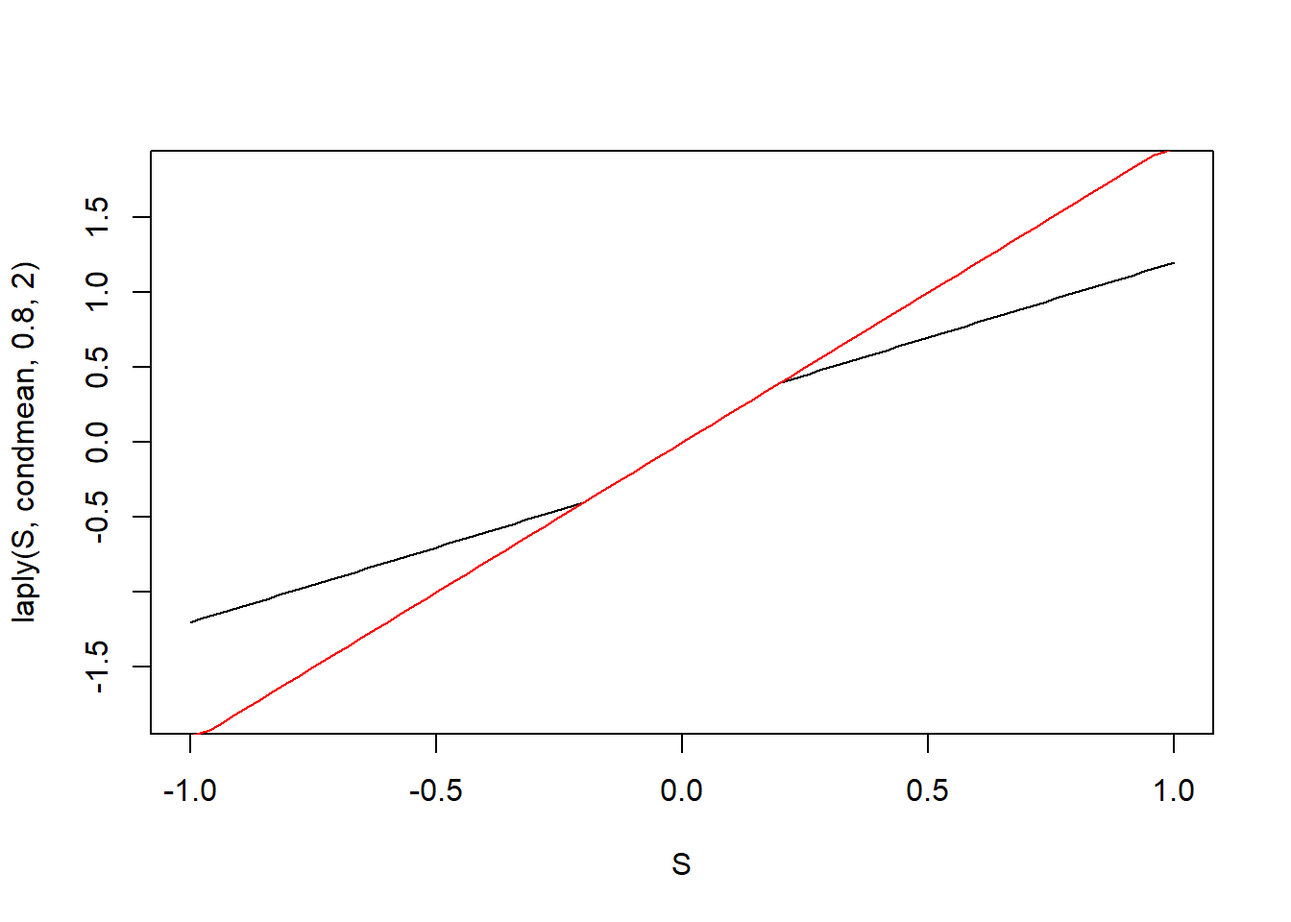
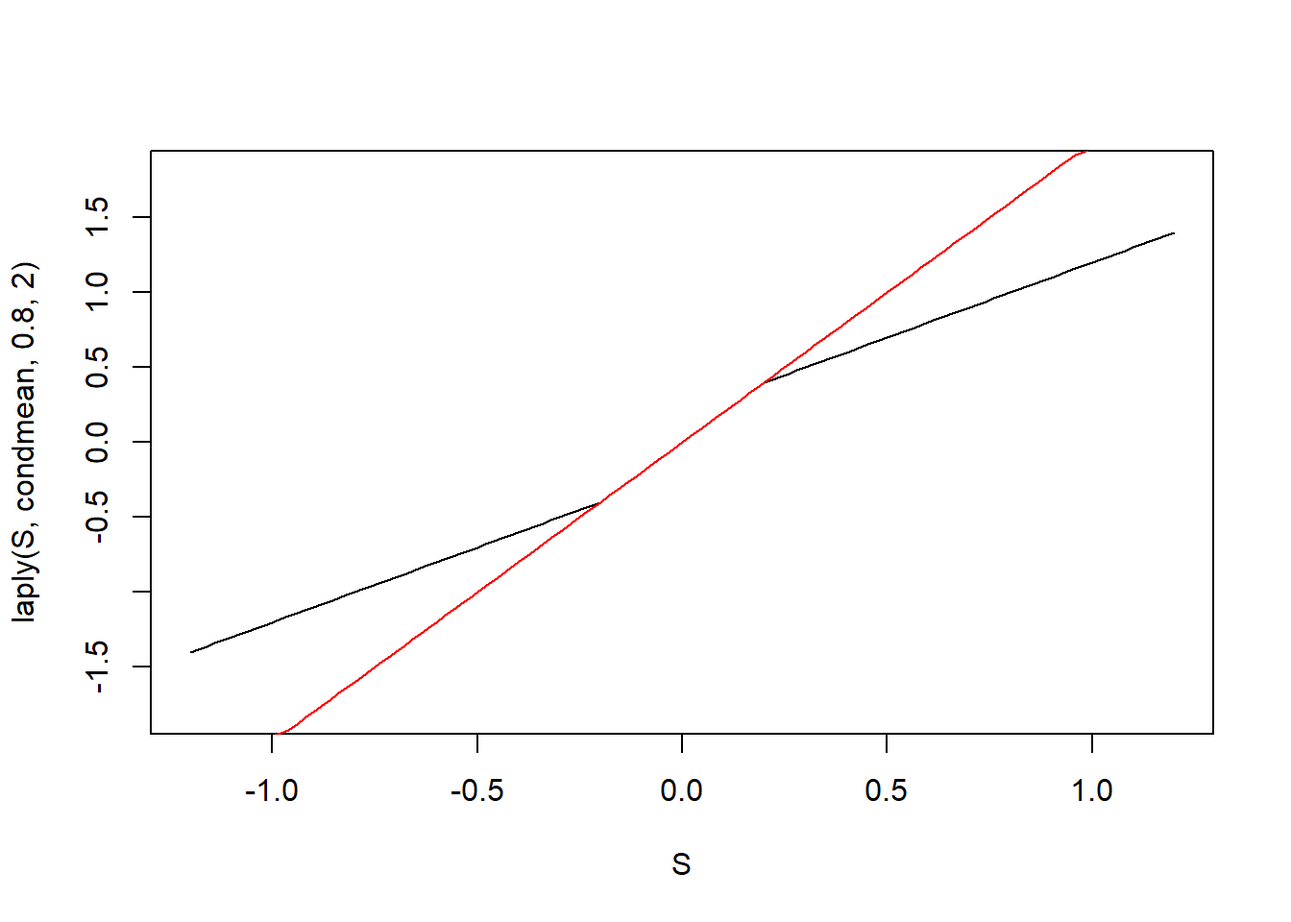
update

diff --git a/public/research/etf持股影响股票定价效率的理论模型推导/index.html b/public/research/etf持股影响股票定价效率的理论模型推导/index.html
@@ -149,7 +149,7 @@ s.t \hspace{0.4cm} W_i=\bar\theta P+\theta_i(V-P)\]</span></p>
 <blockquote>
 <p>(2)信息不对称</p>
 </blockquote>
-<p>当信息不对称时，两类投资者掌握的信息不同，知情投资者掌握股票价值和价格信息，非知情投资者掌握价格信息，只能通过价格来推断资产价值信息。由于信息不对称条件下，求解比较复杂，参考Yang Bai et al.研究，我们先猜测一种均衡下的价格函数，在此价格函数下推导出投资者的需求，并证明在此均衡价格下市场出清。我们认为股票价格取决于经济状态变量，受交易成本和噪声影响，且股票价格只取决于信号<span class="math inline">\(S=\frac{1}{2}(F-c\varepsilon)\)</span>，股票价格是<span class="math inline">\(S\)</span>的严格增函数。其中，<span class="math inline">\(c\varepsilon \sim U[-a_F,a_F]\)</span>，<span class="math inline">\(0&lt; c\leq1\)</span>。</p>
+<p>当信息不对称时，两类投资者掌握的信息不同，知情投资者掌握股票价值和价格信息，非知情投资者掌握价格信息，只能通过价格来推断资产价值信息。由于信息不对称条件下，求解比较复杂，参考Yang Bai et al.研究，我们先猜测一种均衡下的价格函数，在此价格函数下推导出投资者的需求，并证明在此均衡价格下市场出清。我们认为股票价格取决于经济状态变量，受交易成本和噪声影响，且股票价格只取决于信号<span class="math inline">\(S=\frac{1}{2}(F-c\varepsilon)\)</span>，股票价格是<span class="math inline">\(S\)</span>的严格增函数。其中，<span class="math inline">\(\varepsilon \sim U[-a_F,a_F]\)</span>，<span class="math inline">\(0&lt; c\leq 1\)</span>，S。</p>
 <p>对于知情交易者来说，在信息集<span class="math inline">\(I=\{F,P\}\)</span>下的需求函数为：</p>
 <p><span class="math display">\[\theta_I==\frac{F-P}{\sigma_u^2}\]</span></p>
 <p>对于非知情交易者来说，在信息集<span class="math inline">\(I=\{P\}\)</span>下，<span class="math inline">\(E[F|I_U]=E[F|P]=E[F|S]\)</span>，<span class="math inline">\(Var[F|I_U]=Var[F|P]=Var[F|S]\)</span>。由于<span class="math inline">\(c\varepsilon\)</span>与<span class="math inline">\(F\)</span>独立同分布，则其联合密度函数为<span class="math inline">\(f(F,\varepsilon)=f_F(F)f_{\varepsilon}(\varepsilon)\)</span>，且<span class="math inline">\(\varepsilon=\frac{F-2S}{c}\)</span>，则<span class="math inline">\(S\)</span>的概率密度函数为：</p>
@@ -176,32 +176,32 @@ f(F|S)=f(F,F-2S)/f(S)=\left\{
 <p><span class="math display">\[\begin{equation}
 E[F|S]=\int Ff(F|S)dF=\left\{
 \begin{aligned}
-&amp;\frac{1}{(1+c)a_F-2S}\int _{-ca_F+2S}^{a_F}FdF,\hspace{0.5cm}S\ge\frac{(1-c)a_F}{2} \\
-&amp;\frac{1}{2ca_F}\int _{-ca_F+2S}^{ca_F+2S}FdF,\hspace{0.5cm}\frac{(1-c)a_F}{2}\ge S\ge-\frac{(1-c)a_F}{2} \\
-&amp;\frac{1}{(1+c)a_F+2S}\int _{-a_F}^{ca_F+2S}FdF,\hspace{0.5cm}S\le-\frac{(1-c)a_F}{2}  
+&amp;\frac{1}{(1+c)a_F-2S}\int _{-ca_F+2S}^{a_F}FdF,\hspace{0.5cm} \frac{(1-c)a_F}{2}\le S \le \frac{(1+c)a_F}{2} \\
+&amp;\frac{1}{2ca_F}\int _{-ca_F+2S}^{ca_F+2S}FdF,\hspace{0.5cm}-\frac{(1-c)a_F}{2}&lt; S &lt;\frac{(1-c)a_F}{2} \\
+&amp;\frac{1}{(1+c)a_F+2S}\int _{-a_F}^{ca_F+2S}FdF,\hspace{0.5cm}-\frac{(1+c)a_F}{2}\le S\le-\frac{(1-c)a_F}{2}  
 \end{aligned}
 \right.\\ \hspace{2cm}
 =\left\{
 \begin{aligned}
-&amp;\frac{(1-c)a_F+2S}{2},\hspace{0.5cm}S\ge\frac{(1-c)a_F}{2} \\
-&amp;2S,\hspace{0.5cm}\frac{(1-c)a_F}{2}\ge S\ge-\frac{(1-c)a_F}{2} \\
-&amp;\frac{2S-(1-c)a_F}{2},\hspace{0.5cm}S\le-\frac{(1-c)a_F}{2}  
+&amp;\frac{(1-c)a_F+2S}{2},\hspace{0.5cm}\frac{(1-c)a_F}{2}\le S \le \frac{(1+c)a_F}{2}\\
+&amp;2S,\hspace{0.5cm}-\frac{(1-c)a_F}{2}&lt; S&lt; \frac{(1-c)a_F}{2}\\
+&amp;\frac{2S-(1-c)a_F}{2},\hspace{0.5cm}-\frac{(1+c)a_F}{2}\le S\le-\frac{(1-c)a_F}{2}  
 \end{aligned}
 \right.
 \end{equation}\]</span></p>
 <p><span class="math display">\[\begin{equation}
 E[F^2|S]=\int F^2f(F|S)dF=\left\{
 \begin{aligned}
-&amp;\frac{1}{(1+c)a_F-2S}\int _{-ca_F+2S}^{a_F}F^2dF,\hspace{1cm}S\ge\frac{(1-c)a_F}{2} \\
-&amp;\frac{1}{2ca_F}\int _{-ca_F+2S}^{ca_F+2S}F^2dF,\hspace{0.5cm}\frac{(1-c)a_F}{2}\ge S\ge-\frac{(1-c)a_F}{2} \\
-&amp;\frac{1}{(1+c)a_F+2S)}\int _{-a_F}^{ca_F+2S}F^2dF,\hspace{1cm}S\le-\frac{(1-c)a_F}{2}  
+&amp;\frac{1}{(1+c)a_F-2S}\int _{-ca_F+2S}^{a_F}F^2dF,\hspace{1cm}\frac{(1-c)a_F}{2}\le S \le \frac{(1+c)a_F}{2} \\
+&amp;\frac{1}{2ca_F}\int _{-ca_F+2S}^{ca_F+2S}F^2dF,\hspace{0.5cm}-\frac{(1-c)a_F}{2}&lt; S&lt;\frac{(1-c)a_F}{2} \\
+&amp;\frac{1}{(1+c)a_F+2S)}\int _{-a_F}^{ca_F+2S}F^2dF,\hspace{1cm}- \frac{(1+c)a_F}{2}\le S\le-\frac{(1-c)a_F}{2}  
 \end{aligned}
 \right.\\ \hspace{8cm}
 =\left\{
 \begin{aligned}
-&amp;\frac{(1+c^2-c)a_F^2+2(1-2c)a_FS+4S^2}{3},\hspace{3cm}S\ge\frac{(1-c)a_F}{2} \\
-&amp;4S^2+c^2a_F^2/3,\hspace{6cm}\frac{(1-c)a_F}{2}\ge S\ge-\frac{(1-c)a_F}{2} \\
-&amp;\frac{(1+c^2-c)a_F^2-2(1-2c)a_FS+4S^2}{3},\hspace{3cm}S\le-\frac{(1-c)a_F}{2}  
+&amp;\frac{(1+c^2-c)a_F^2+2(1-2c)a_FS+4S^2}{3},\hspace{1cm}\frac{(1-c)a_F}{2}\le S \le \frac{(1+c)a_F}{2}  \\
+&amp;4S^2+c^2a_F^2/3,\hspace{7cm}-\frac{(1-c)a_F}{2}&lt; S &lt;\frac{(1-c)a_F}{2} \\
+&amp;\frac{(1+c^2-c)a_F^2-2(1-2c)a_FS+4S^2}{3},\hspace{1cm}-\frac{(1+c)a_F}{2}\le S\le-\frac{(1-c)a_F}{2}  
 \end{aligned}
 \right.
 \end{equation}\]</span></p>
@@ -209,9 +209,9 @@ E[F^2|S]=\int F^2f(F|S)dF=\left\{
 V[F|S]
 =\left\{
 \begin{aligned}
-&amp;\frac{[(1+c)a_F-2S]^2}{12},\hspace{3cm}S\ge\frac{(1-c)a_F}{2} \\
-&amp;c^2a_F^2/3,\hspace{2.5cm}\frac{(1-c)a_F}{2}\ge S\ge-\frac{(1-c)a_F}{2} \\
-&amp;\frac{[(1+c)a_F+2S]^2}{12},\hspace{3cm}S\le-\frac{(1-c)a_F}{2}  
+&amp;\frac{[(1+c)a_F-2S]^2}{12},\hspace{1cm}\frac{(1-c)a_F}{2}\le S \le \frac{(1+c)a_F}{2}\\
+&amp;c^2a_F^2/3,\hspace{3.5cm}-\frac{(1-c)a_F}{2}&lt; S&lt;\frac{(1-c)a_F}{2} \\
+&amp;\frac{[(1+c)a_F+2S]^2}{12},\hspace{1cm}-\frac{(1+c)a_F}{2}\le S\le-\frac{(1-c)a_F}{2}  
 \end{aligned}
 \right.
 \end{equation}\]</span></p>
@@ -245,13 +245,13 @@ condvar&lt;-function(S,c,af){
   return(vr)
 }
 set.seed(100)
-theta=0.1
+theta=0.2
 au&lt;-af&lt;-2
 simamu=au^2/3
-c=seq(0,1,0.05)
+c&lt;-0.2
 w=0.5
 epsilon&lt;-runif(101,-2,2)
-S=seq(-1,1,0.02)
+S=seq(-(1+c)*au/2,(1+c)*au/2,0.02)
 
 plot(S,laply(S,condmean,0.8,2),type = &quot;l&quot;,ylim = c(-1.8,1.8))
 lines(S,laply(S,condmean,0.04,2),col=&quot;red&quot;)</code></pre>
@@ -259,7 +259,8 @@ lines(S,laply(S,condmean,0.04,2),col=&quot;red&quot;)</code></pre>
 <pre class="r"><code>plot(S,laply(S,condvar,0.8,2),type = &quot;l&quot;,ylim = c(-1.8,1.8))
 lines(S,laply(S,condvar,0.04,2),col=&quot;red&quot;)</code></pre>
 <p><img src="/research/2021-01-14-etf持股影响股票定价效率的理论模型推导_files/figure-html/unnamed-chunk-1-2.png" width="672" /></p>
-<pre class="r"><code>plot(c,laply(c,condmean,S=-0.8,af=2),type = &quot;l&quot;)</code></pre>
+<pre class="r"><code>c=seq(0,1,0.05)
+plot(c,laply(c,condmean,S=-0.8,af=2),type = &quot;l&quot;)</code></pre>
 <p><img src="/research/2021-01-14-etf持股影响股票定价效率的理论模型推导_files/figure-html/unnamed-chunk-1-3.png" width="672" /></p>
 <pre class="r"><code>plot(c,laply(c,condvar,S=-0.8,af=2),type = &quot;l&quot;)</code></pre>
 <p><img src="/research/2021-01-14-etf持股影响股票定价效率的理论模型推导_files/figure-html/unnamed-chunk-1-4.png" width="672" /></p>
@@ -267,9 +268,9 @@ lines(S,laply(S,condvar,0.04,2),col=&quot;red&quot;)</code></pre>
 <span class="math display">\[\begin{equation}
 \theta_U=\left\{
 \begin{aligned}
-&amp;\frac{S-P}{\frac{1}{12}[(1+c)a_F-2S]^2+\sigma_u^2},\hspace{0.5cm}S\ge\frac{(1-c)a_F}{2} \\
-&amp;\frac{S-P}{\frac{1}{3}(c^2a_F^2)+\sigma_u^2},\hspace{0.5cm}\frac{(1-c)a_F}{2}\ge S\ge-\frac{(1-c)a_F}{2} \\
-&amp;\frac{S-P}{\frac{1}{12}[(1+c)a_F+2S]^2+\sigma_u^2},\hspace{0.5cm}S\le-\frac{(1-c)a_F}{2}  
+&amp;\frac{S-P}{\frac{1}{12}[(1+c)a_F-2S]^2+\sigma_u^2},\hspace{0.5cm}\frac{(1-c)a_F}{2}\le S \le \frac{(1+c)a_F}{2}\\
+&amp;\frac{S-P}{\frac{1}{3}(c^2a_F^2)+\sigma_u^2},\hspace{0.5cm}-\frac{(1-c)a_F}{2}&lt; S&lt; \frac{(1-c)a_F}{2} \\
+&amp;\frac{S-P}{\frac{1}{12}[(1+c)a_F+2S]^2+\sigma_u^2},\hspace{0.5cm}-\frac{(1+c)a_F}{2}\le S\le-\frac{(1-c)a_F}{2}  
 \end{aligned}
 \right.
 \end{equation}\]</span></p>
@@ -281,9 +282,9 @@ lines(S,laply(S,condvar,0.04,2),col=&quot;red&quot;)</code></pre>
 <p><span class="math display">\[\begin{equation}
 P=\left\{
 \begin{aligned}
-&amp;2S+c\varepsilon-\bar\theta\sigma_u^2-(1-w)\frac{S+c\varepsilon+\frac{1}{12}[(1+c)a_F-2S]^2\bar\theta}{1+w\frac{1}{12}[(1+c)a_F-2S]^2/\sigma_u^2},\hspace{0.5cm}S\ge\frac{(1-c)a_F}{2} \\
-&amp;2S+c\varepsilon-\bar\theta\sigma_u^2-(1-w)\frac{S+c\varepsilon+\frac{1}{3}(c^2a_F^2)\bar\theta}{1+w\frac{1}{3}(c^2a_F^2)/\sigma_u^2},\hspace{0.5cm}\frac{(1-c)a_F}{2}\ge S\ge-\frac{(1-c)a_F}{2} \\
-&amp;2S+c\varepsilon-\bar\theta\sigma_u^2-(1-w)\frac{S+c\varepsilon+\frac{1}{12}[(1+c)a_F+2S]^2\bar\theta}{1+w\frac{1}{12}[(1+c)a_F+2S]^2/\sigma_u^2},\hspace{0.5cm}S\le-\frac{(1-c)a_F}{2}  
+&amp;2S+c\varepsilon-\bar\theta\sigma_u^2-(1-w)\frac{S+c\varepsilon+\frac{1}{12}[(1+c)a_F-2S]^2\bar\theta}{1+w\frac{1}{12}[(1+c)a_F-2S]^2/\sigma_u^2},\hspace{0.5cm} \frac{(1-c)a_F}{2}\le S \le \frac{(1+c)a_F}{2} \\
+&amp;2S+c\varepsilon-\bar\theta\sigma_u^2-(1-w)\frac{S+c\varepsilon+\frac{1}{3}(c^2a_F^2)\bar\theta}{1+w\frac{1}{3}(c^2a_F^2)/\sigma_u^2},\hspace{0.5cm}-\frac{(1-c)a_F}{2}&lt; S&lt; \frac{(1-c)a_F}{2} \\
+&amp;2S+c\varepsilon-\bar\theta\sigma_u^2-(1-w)\frac{S+c\varepsilon+\frac{1}{12}[(1+c)a_F+2S]^2\bar\theta}{1+w\frac{1}{12}[(1+c)a_F+2S]^2/\sigma_u^2},\hspace{0.5cm} -\frac{(1+c)a_F}{2} \le S\le-\frac{(1-c)a_F}{2}  
 \end{aligned}
 \right.
 \end{equation}\]</span>
@@ -294,24 +295,24 @@ P=\left\{
 <span class="math display">\[\begin{equation}
 \theta_I=\left\{
 \begin{aligned}
-&amp;\bar\theta+(1-w)\frac{S+c\varepsilon+\frac{1}{12}[(1+c)a_F-2S]^2\bar\theta}{\sigma_u^2+w\frac{1}{12}[(1+c)a_F-2S]^2},\hspace{0.5cm}S\ge\frac{(1-c)a_F}{2} \\
-&amp;\bar\theta+(1-w)\frac{S+c\varepsilon+\frac{1}{3}(c^2a_F^2)\bar\theta}{\sigma_u^2+w\frac{1}{3}(c^2a_F^2)},\hspace{0.5cm}\frac{(1-c)a_F}{2}\ge S\ge-\frac{(1-c)a_F}{2} \\
-&amp;\bar\theta+(1-w)\frac{S+c\varepsilon+\frac{1}{12}[(1+c)a_F+2S]^2\bar\theta}{\sigma_u^2+w\frac{1}{12}[(1+c)a_F+2S]^2},\hspace{0.5cm}S\le-\frac{(1-c)a_F}{2}  
+&amp;\bar\theta+(1-w)\frac{S+c\varepsilon+\frac{1}{12}[(1+c)a_F-2S]^2\bar\theta}{\sigma_u^2+w\frac{1}{12}[(1+c)a_F-2S]^2},\hspace{0.5cm} \frac{(1-c)a_F}{2}\le S \le \frac{(1+c)a_F}{2} \\
+&amp;\bar\theta+(1-w)\frac{S+c\varepsilon+\frac{1}{3}(c^2a_F^2)\bar\theta}{\sigma_u^2+w\frac{1}{3}(c^2a_F^2)},\hspace{0.5cm}-\frac{(1-c)a_F}{2}&lt; S&lt;\frac{(1-c)a_F}{2} \\
+&amp;\bar\theta+(1-w)\frac{S+c\varepsilon+\frac{1}{12}[(1+c)a_F+2S]^2\bar\theta}{\sigma_u^2+w\frac{1}{12}[(1+c)a_F+2S]^2},\hspace{0.5cm}-\frac{(1+c)a_F}{2} \le S\le-\frac{(1-c)a_F}{2}  
 \end{aligned}
 \right.
 \end{equation}\]</span></p>
 <p><span class="math display">\[\begin{equation}
 \theta_U=\left\{
 \begin{aligned}
-&amp;\bar\theta-w\frac{S+c\varepsilon+\frac{1}{12}[(1+c)a_F-2S]^2\bar\theta}{\sigma_u^2+w\frac{1}{12}[(1+c)a_F-2S]^2},\hspace{0.5cm}S\ge\frac{(1-c)a_F}{2} \\
-&amp;\bar\theta-w\frac{S+c\varepsilon+\frac{1}{3}(c^2a_F^2)\bar\theta}{\sigma_u^2+w\frac{1}{3}(c^2a_F^2)},\hspace{0.5cm}\frac{(1-c)a_F}{2}\ge S\ge-\frac{(1-c)a_F}{2} \\
-&amp;\bar\theta-w\frac{S+c\varepsilon+\frac{1}{12}[(1+c)a_F+2S]^2\bar\theta}{\sigma_u^2+w\frac{1}{12}[(1+c)a_F+2S]^2},\hspace{0.5cm}S\le-\frac{(1-c)a_F}{2}  
+&amp;\bar\theta-w\frac{S+c\varepsilon+\frac{1}{12}[(1+c)a_F-2S]^2\bar\theta}{\sigma_u^2+w\frac{1}{12}[(1+c)a_F-2S]^2},\hspace{0.5cm}\frac{(1-c)a_F}{2}\le S \le \frac{(1+c)a_F}{2} \\
+&amp;\bar\theta-w\frac{S+c\varepsilon+\frac{1}{3}(c^2a_F^2)\bar\theta}{\sigma_u^2+w\frac{1}{3}(c^2a_F^2)},\hspace{0.5cm}-\frac{(1-c)a_F}{2}&lt; S&lt; \frac{(1-c)a_F}{2} \\
+&amp;\bar\theta-w\frac{S+c\varepsilon+\frac{1}{12}[(1+c)a_F+2S]^2\bar\theta}{\sigma_u^2+w\frac{1}{12}[(1+c)a_F+2S]^2},\hspace{0.5cm}-\frac{(1+c)a_F}{2} \le S\le-\frac{(1-c)a_F}{2}  
 \end{aligned}
 \right.
 \end{equation}\]</span></p>
 </div>
-<div id="均衡价格最有需求模拟" class="section level3">
-<h3>均衡价格，最有需求模拟</h3>
+<div id="均衡价格最优需求模拟" class="section level3">
+<h3>均衡价格，最优需求模拟</h3>
 <p>参数设定，<span class="math inline">\(a_u=a_F=2\)</span>，<span class="math inline">\(\theta=0.1\)</span>，<span class="math inline">\(w=0.5\)</span>，<span class="math inline">\(c=0.01\)</span>，具体代码如下：</p>
 <pre class="r"><code>condmean&lt;-function(S,c,af){
   cm&lt;-NULL
@@ -341,13 +342,13 @@ condvar&lt;-function(S,c,af){
   return(vr)
 }
 set.seed(100)
-theta=0.1
+theta=0.2
 au&lt;-af&lt;-2
 simamu=au^2/3
 c=0
 w=0.5
 epsilon&lt;-runif(101,-2,2)
-S=seq(-1,1,0.02)
+S=seq(-(1+c)*au/2,(1+c)*au/2,0.02)
 VFI=laply(S,condvar,c,2)
 P=2*S+c*epsilon-theta*simamu-(1-w)*((S+c*epsilon+VFI)/(1+w*VFI/simamu))
 
@@ -359,7 +360,25 @@ thetaU=theta-w*((S+c*epsilon+VFI*theta)/(simamu+w*VFI))
 plot(S,thetaU,col=&quot;blue&quot;,lty=3,type = &quot;l&quot;)
 lines(S,thetaI,col=&quot;red&quot;)
 abline(h=theta,lty=3)</code></pre>
-<p><img src="/research/2021-01-14-etf持股影响股票定价效率的理论模型推导_files/figure-html/unnamed-chunk-2-2.png" width="672" /></p>
+<p><img src="/research/2021-01-14-etf持股影响股票定价效率的理论模型推导_files/figure-html/unnamed-chunk-2-2.png" width="672" />
+期望价格为：</p>
+<p><span class="math display">\[E[P]=\int _{\frac{(1-c)a_F}{2}}^{\frac{(1+c)a_F}{2}}Pf(S)dS+\int _{-\frac{(1-c)a_F}{2}}^{\frac{(1-c)a_F}{2}}Pf(S)dS+\int _{-\frac{(1+c)a_F}{2}}^{-\frac{(1-c)a_F}{2}}Pf(S)dS\\
+=\frac{1}{(1+c)a_F}\bigg[S^2-\bar\theta\sigma_u^2S-(1-w)[\frac{3\sigma_u^2}{2w}ln(1+\frac{w}{12\sigma_u^2}[(1+c)a_F-2S])+\frac{\bar\theta\sigma_u^2}{w}S\\+(\frac{\bar\theta\sigma_u^2}{2w}-\frac{(1+c)a_F}{4})(\frac{w}{12\sigma_u^2})^{-\frac{1}{2}}arctan(\sqrt{\frac{w}{12\sigma_u^2}}[(1+c)a_F-2S])\bigg]\bigg|_{\frac{(1-c)a_F}{2}}^{\frac{(1+c)a_F}{2}}\\
++\frac{1}{(1+c)a_F}\bigg[S^2-\bar\theta\sigma_u^2S-(1-w)[\frac{S^2}{2(1+\frac{wc^2a_F^2}{3\sigma_u^2})}+\frac{S\frac{c^2a_F^2\bar\theta}{3}}{(1+\frac{wc^2a_F^2}{3\sigma_u^2})}\bigg]\bigg|_{-\frac{(1-c)a_F}{2}}^{\frac{(1-c)a_F}{2}}\\
++\frac{1}{(1+c)a_F}\bigg[S^2-\bar\theta\sigma_u^2S-(1-w)[\frac{3\sigma_u^2}{2w}ln(1+\frac{w}{12\sigma_u^2}[(1+c)a_F+2S])+\frac{\bar\theta\sigma_u^2}{w}S\\-(\frac{\bar\theta\sigma_u^2}{2w}+\frac{(1+c)a_F}{4})(\frac{w}{12\sigma_u^2})^{-\frac{1}{2}}arctan(\sqrt{\frac{w}{12\sigma_u^2}}[(1+c)a_F+2S])\bigg]\bigg|_{-\frac{(1+c)a_F}{2}}^{-\frac{(1-c)a_F}{2}}\\
+=\frac{1}{(1+c)a_F}\bigg[-\bar\theta\sigma_u^2(1+c)a_F-(1-w)\frac{(1-c)c^2a_F^3}{1+wc^2a_F^2/3\sigma_u^2}-\frac{\theta\sigma_u^2}{w}\sqrt{12\sigma_u^2/w}arctan(\sqrt{\frac{w}{12\sigma_u^2}}2ca_F)\bigg]\]</span></p>
+<p>参数设定，<span class="math inline">\(a_u=a_F=2\)</span>，<span class="math inline">\(\theta=0.1\)</span>，<span class="math inline">\(w=0.5\)</span>，<span class="math inline">\(c=0.01\)</span>，具体代码如下：</p>
+<pre class="r"><code>set.seed(100)
+theta=0.2
+au&lt;-af&lt;-2
+simamu=au^2/3
+c=seq(0,1,0.01)
+w=0.5
+P=(-theta*simamu*(1+c)*af-(1-w)*(1-c)*c^2*af^3/(1+w*c^2*af^2/(3*simamu))-theta*simamu/w*sqrt(12*simamu/w)*atan(sqrt(w/(12*simamu))*2*c*af))/((1+c)*af)
+
+plot(c,P,lty=3,type = &quot;l&quot;)
+abline(h=-theta*simamu,col=&quot;red&quot;,lty=3)</code></pre>
+<p><img src="/research/2021-01-14-etf持股影响股票定价效率的理论模型推导_files/figure-html/unnamed-chunk-3-1.png" width="672" /></p>
 </div>
 
 

diff --git a/content/research/2021-01-14-etf持股影响股票定价效率的理论模型推导.html b/content/research/2021-01-14-etf持股影响股票定价效率的理论模型推导.html
@@ -68,7 +68,7 @@ s.t \hspace{0.4cm} W_i=\bar\theta P+\theta_i(V-P)\]</span></p>
 <blockquote>
 <p>(2)信息不对称</p>
 </blockquote>
-<p>当信息不对称时，两类投资者掌握的信息不同，知情投资者掌握股票价值和价格信息，非知情投资者掌握价格信息，只能通过价格来推断资产价值信息。由于信息不对称条件下，求解比较复杂，参考Yang Bai et al.研究，我们先猜测一种均衡下的价格函数，在此价格函数下推导出投资者的需求，并证明在此均衡价格下市场出清。我们认为股票价格取决于经济状态变量，受交易成本和噪声影响，且股票价格只取决于信号<span class="math inline">\(S=\frac{1}{2}(F-c\varepsilon)\)</span>，股票价格是<span class="math inline">\(S\)</span>的严格增函数。其中，<span class="math inline">\(c\varepsilon \sim U[-a_F,a_F]\)</span>，<span class="math inline">\(0&lt; c\leq1\)</span>。</p>
+<p>当信息不对称时，两类投资者掌握的信息不同，知情投资者掌握股票价值和价格信息，非知情投资者掌握价格信息，只能通过价格来推断资产价值信息。由于信息不对称条件下，求解比较复杂，参考Yang Bai et al.研究，我们先猜测一种均衡下的价格函数，在此价格函数下推导出投资者的需求，并证明在此均衡价格下市场出清。我们认为股票价格取决于经济状态变量，受交易成本和噪声影响，且股票价格只取决于信号<span class="math inline">\(S=\frac{1}{2}(F-c\varepsilon)\)</span>，股票价格是<span class="math inline">\(S\)</span>的严格增函数。其中，<span class="math inline">\(\varepsilon \sim U[-a_F,a_F]\)</span>，<span class="math inline">\(0&lt; c\leq 1\)</span>，S。</p>
 <p>对于知情交易者来说，在信息集<span class="math inline">\(I=\{F,P\}\)</span>下的需求函数为：</p>
 <p><span class="math display">\[\theta_I==\frac{F-P}{\sigma_u^2}\]</span></p>
 <p>对于非知情交易者来说，在信息集<span class="math inline">\(I=\{P\}\)</span>下，<span class="math inline">\(E[F|I_U]=E[F|P]=E[F|S]\)</span>，<span class="math inline">\(Var[F|I_U]=Var[F|P]=Var[F|S]\)</span>。由于<span class="math inline">\(c\varepsilon\)</span>与<span class="math inline">\(F\)</span>独立同分布，则其联合密度函数为<span class="math inline">\(f(F,\varepsilon)=f_F(F)f_{\varepsilon}(\varepsilon)\)</span>，且<span class="math inline">\(\varepsilon=\frac{F-2S}{c}\)</span>，则<span class="math inline">\(S\)</span>的概率密度函数为：</p>
@@ -95,32 +95,32 @@ f(F|S)=f(F,F-2S)/f(S)=\left\{
 <p><span class="math display">\[\begin{equation}
 E[F|S]=\int Ff(F|S)dF=\left\{
 \begin{aligned}
-&amp;\frac{1}{(1+c)a_F-2S}\int _{-ca_F+2S}^{a_F}FdF,\hspace{0.5cm}S\ge\frac{(1-c)a_F}{2} \\
-&amp;\frac{1}{2ca_F}\int _{-ca_F+2S}^{ca_F+2S}FdF,\hspace{0.5cm}\frac{(1-c)a_F}{2}\ge S\ge-\frac{(1-c)a_F}{2} \\
-&amp;\frac{1}{(1+c)a_F+2S}\int _{-a_F}^{ca_F+2S}FdF,\hspace{0.5cm}S\le-\frac{(1-c)a_F}{2}  
+&amp;\frac{1}{(1+c)a_F-2S}\int _{-ca_F+2S}^{a_F}FdF,\hspace{0.5cm} \frac{(1-c)a_F}{2}\le S \le \frac{(1+c)a_F}{2} \\
+&amp;\frac{1}{2ca_F}\int _{-ca_F+2S}^{ca_F+2S}FdF,\hspace{0.5cm}-\frac{(1-c)a_F}{2}&lt; S &lt;\frac{(1-c)a_F}{2} \\
+&amp;\frac{1}{(1+c)a_F+2S}\int _{-a_F}^{ca_F+2S}FdF,\hspace{0.5cm}-\frac{(1+c)a_F}{2}\le S\le-\frac{(1-c)a_F}{2}  
 \end{aligned}
 \right.\\ \hspace{2cm}
 =\left\{
 \begin{aligned}
-&amp;\frac{(1-c)a_F+2S}{2},\hspace{0.5cm}S\ge\frac{(1-c)a_F}{2} \\
-&amp;2S,\hspace{0.5cm}\frac{(1-c)a_F}{2}\ge S\ge-\frac{(1-c)a_F}{2} \\
-&amp;\frac{2S-(1-c)a_F}{2},\hspace{0.5cm}S\le-\frac{(1-c)a_F}{2}  
+&amp;\frac{(1-c)a_F+2S}{2},\hspace{0.5cm}\frac{(1-c)a_F}{2}\le S \le \frac{(1+c)a_F}{2}\\
+&amp;2S,\hspace{0.5cm}-\frac{(1-c)a_F}{2}&lt; S&lt; \frac{(1-c)a_F}{2}\\
+&amp;\frac{2S-(1-c)a_F}{2},\hspace{0.5cm}-\frac{(1+c)a_F}{2}\le S\le-\frac{(1-c)a_F}{2}  
 \end{aligned}
 \right.
 \end{equation}\]</span></p>
 <p><span class="math display">\[\begin{equation}
 E[F^2|S]=\int F^2f(F|S)dF=\left\{
 \begin{aligned}
-&amp;\frac{1}{(1+c)a_F-2S}\int _{-ca_F+2S}^{a_F}F^2dF,\hspace{1cm}S\ge\frac{(1-c)a_F}{2} \\
-&amp;\frac{1}{2ca_F}\int _{-ca_F+2S}^{ca_F+2S}F^2dF,\hspace{0.5cm}\frac{(1-c)a_F}{2}\ge S\ge-\frac{(1-c)a_F}{2} \\
-&amp;\frac{1}{(1+c)a_F+2S)}\int _{-a_F}^{ca_F+2S}F^2dF,\hspace{1cm}S\le-\frac{(1-c)a_F}{2}  
+&amp;\frac{1}{(1+c)a_F-2S}\int _{-ca_F+2S}^{a_F}F^2dF,\hspace{1cm}\frac{(1-c)a_F}{2}\le S \le \frac{(1+c)a_F}{2} \\
+&amp;\frac{1}{2ca_F}\int _{-ca_F+2S}^{ca_F+2S}F^2dF,\hspace{0.5cm}-\frac{(1-c)a_F}{2}&lt; S&lt;\frac{(1-c)a_F}{2} \\
+&amp;\frac{1}{(1+c)a_F+2S)}\int _{-a_F}^{ca_F+2S}F^2dF,\hspace{1cm}- \frac{(1+c)a_F}{2}\le S\le-\frac{(1-c)a_F}{2}  
 \end{aligned}
 \right.\\ \hspace{8cm}
 =\left\{
 \begin{aligned}
-&amp;\frac{(1+c^2-c)a_F^2+2(1-2c)a_FS+4S^2}{3},\hspace{3cm}S\ge\frac{(1-c)a_F}{2} \\
-&amp;4S^2+c^2a_F^2/3,\hspace{6cm}\frac{(1-c)a_F}{2}\ge S\ge-\frac{(1-c)a_F}{2} \\
-&amp;\frac{(1+c^2-c)a_F^2-2(1-2c)a_FS+4S^2}{3},\hspace{3cm}S\le-\frac{(1-c)a_F}{2}  
+&amp;\frac{(1+c^2-c)a_F^2+2(1-2c)a_FS+4S^2}{3},\hspace{1cm}\frac{(1-c)a_F}{2}\le S \le \frac{(1+c)a_F}{2}  \\
+&amp;4S^2+c^2a_F^2/3,\hspace{7cm}-\frac{(1-c)a_F}{2}&lt; S &lt;\frac{(1-c)a_F}{2} \\
+&amp;\frac{(1+c^2-c)a_F^2-2(1-2c)a_FS+4S^2}{3},\hspace{1cm}-\frac{(1+c)a_F}{2}\le S\le-\frac{(1-c)a_F}{2}  
 \end{aligned}
 \right.
 \end{equation}\]</span></p>
@@ -128,9 +128,9 @@ E[F^2|S]=\int F^2f(F|S)dF=\left\{
 V[F|S]
 =\left\{
 \begin{aligned}
-&amp;\frac{[(1+c)a_F-2S]^2}{12},\hspace{3cm}S\ge\frac{(1-c)a_F}{2} \\
-&amp;c^2a_F^2/3,\hspace{2.5cm}\frac{(1-c)a_F}{2}\ge S\ge-\frac{(1-c)a_F}{2} \\
-&amp;\frac{[(1+c)a_F+2S]^2}{12},\hspace{3cm}S\le-\frac{(1-c)a_F}{2}  
+&amp;\frac{[(1+c)a_F-2S]^2}{12},\hspace{1cm}\frac{(1-c)a_F}{2}\le S \le \frac{(1+c)a_F}{2}\\
+&amp;c^2a_F^2/3,\hspace{3.5cm}-\frac{(1-c)a_F}{2}&lt; S&lt;\frac{(1-c)a_F}{2} \\
+&amp;\frac{[(1+c)a_F+2S]^2}{12},\hspace{1cm}-\frac{(1+c)a_F}{2}\le S\le-\frac{(1-c)a_F}{2}  
 \end{aligned}
 \right.
 \end{equation}\]</span></p>
@@ -164,13 +164,13 @@ condvar&lt;-function(S,c,af){
   return(vr)
 }
 set.seed(100)
-theta=0.1
+theta=0.2
 au&lt;-af&lt;-2
 simamu=au^2/3
-c=seq(0,1,0.05)
+c&lt;-0.2
 w=0.5
 epsilon&lt;-runif(101,-2,2)
-S=seq(-1,1,0.02)
+S=seq(-(1+c)*au/2,(1+c)*au/2,0.02)
 
 plot(S,laply(S,condmean,0.8,2),type = &quot;l&quot;,ylim = c(-1.8,1.8))
 lines(S,laply(S,condmean,0.04,2),col=&quot;red&quot;)</code></pre>
@@ -178,7 +178,8 @@ lines(S,laply(S,condmean,0.04,2),col=&quot;red&quot;)</code></pre>
 <pre class="r"><code>plot(S,laply(S,condvar,0.8,2),type = &quot;l&quot;,ylim = c(-1.8,1.8))
 lines(S,laply(S,condvar,0.04,2),col=&quot;red&quot;)</code></pre>
 <p><img src="/research/2021-01-14-etf持股影响股票定价效率的理论模型推导_files/figure-html/unnamed-chunk-1-2.png" width="672" /></p>
-<pre class="r"><code>plot(c,laply(c,condmean,S=-0.8,af=2),type = &quot;l&quot;)</code></pre>
+<pre class="r"><code>c=seq(0,1,0.05)
+plot(c,laply(c,condmean,S=-0.8,af=2),type = &quot;l&quot;)</code></pre>
 <p><img src="/research/2021-01-14-etf持股影响股票定价效率的理论模型推导_files/figure-html/unnamed-chunk-1-3.png" width="672" /></p>
 <pre class="r"><code>plot(c,laply(c,condvar,S=-0.8,af=2),type = &quot;l&quot;)</code></pre>
 <p><img src="/research/2021-01-14-etf持股影响股票定价效率的理论模型推导_files/figure-html/unnamed-chunk-1-4.png" width="672" /></p>
@@ -186,9 +187,9 @@ lines(S,laply(S,condvar,0.04,2),col=&quot;red&quot;)</code></pre>
 <span class="math display">\[\begin{equation}
 \theta_U=\left\{
 \begin{aligned}
-&amp;\frac{S-P}{\frac{1}{12}[(1+c)a_F-2S]^2+\sigma_u^2},\hspace{0.5cm}S\ge\frac{(1-c)a_F}{2} \\
-&amp;\frac{S-P}{\frac{1}{3}(c^2a_F^2)+\sigma_u^2},\hspace{0.5cm}\frac{(1-c)a_F}{2}\ge S\ge-\frac{(1-c)a_F}{2} \\
-&amp;\frac{S-P}{\frac{1}{12}[(1+c)a_F+2S]^2+\sigma_u^2},\hspace{0.5cm}S\le-\frac{(1-c)a_F}{2}  
+&amp;\frac{S-P}{\frac{1}{12}[(1+c)a_F-2S]^2+\sigma_u^2},\hspace{0.5cm}\frac{(1-c)a_F}{2}\le S \le \frac{(1+c)a_F}{2}\\
+&amp;\frac{S-P}{\frac{1}{3}(c^2a_F^2)+\sigma_u^2},\hspace{0.5cm}-\frac{(1-c)a_F}{2}&lt; S&lt; \frac{(1-c)a_F}{2} \\
+&amp;\frac{S-P}{\frac{1}{12}[(1+c)a_F+2S]^2+\sigma_u^2},\hspace{0.5cm}-\frac{(1+c)a_F}{2}\le S\le-\frac{(1-c)a_F}{2}  
 \end{aligned}
 \right.
 \end{equation}\]</span></p>
@@ -200,9 +201,9 @@ lines(S,laply(S,condvar,0.04,2),col=&quot;red&quot;)</code></pre>
 <p><span class="math display">\[\begin{equation}
 P=\left\{
 \begin{aligned}
-&amp;2S+c\varepsilon-\bar\theta\sigma_u^2-(1-w)\frac{S+c\varepsilon+\frac{1}{12}[(1+c)a_F-2S]^2\bar\theta}{1+w\frac{1}{12}[(1+c)a_F-2S]^2/\sigma_u^2},\hspace{0.5cm}S\ge\frac{(1-c)a_F}{2} \\
-&amp;2S+c\varepsilon-\bar\theta\sigma_u^2-(1-w)\frac{S+c\varepsilon+\frac{1}{3}(c^2a_F^2)\bar\theta}{1+w\frac{1}{3}(c^2a_F^2)/\sigma_u^2},\hspace{0.5cm}\frac{(1-c)a_F}{2}\ge S\ge-\frac{(1-c)a_F}{2} \\
-&amp;2S+c\varepsilon-\bar\theta\sigma_u^2-(1-w)\frac{S+c\varepsilon+\frac{1}{12}[(1+c)a_F+2S]^2\bar\theta}{1+w\frac{1}{12}[(1+c)a_F+2S]^2/\sigma_u^2},\hspace{0.5cm}S\le-\frac{(1-c)a_F}{2}  
+&amp;2S+c\varepsilon-\bar\theta\sigma_u^2-(1-w)\frac{S+c\varepsilon+\frac{1}{12}[(1+c)a_F-2S]^2\bar\theta}{1+w\frac{1}{12}[(1+c)a_F-2S]^2/\sigma_u^2},\hspace{0.5cm} \frac{(1-c)a_F}{2}\le S \le \frac{(1+c)a_F}{2} \\
+&amp;2S+c\varepsilon-\bar\theta\sigma_u^2-(1-w)\frac{S+c\varepsilon+\frac{1}{3}(c^2a_F^2)\bar\theta}{1+w\frac{1}{3}(c^2a_F^2)/\sigma_u^2},\hspace{0.5cm}-\frac{(1-c)a_F}{2}&lt; S&lt; \frac{(1-c)a_F}{2} \\
+&amp;2S+c\varepsilon-\bar\theta\sigma_u^2-(1-w)\frac{S+c\varepsilon+\frac{1}{12}[(1+c)a_F+2S]^2\bar\theta}{1+w\frac{1}{12}[(1+c)a_F+2S]^2/\sigma_u^2},\hspace{0.5cm} -\frac{(1+c)a_F}{2} \le S\le-\frac{(1-c)a_F}{2}  
 \end{aligned}
 \right.
 \end{equation}\]</span>
@@ -213,24 +214,24 @@ P=\left\{
 <span class="math display">\[\begin{equation}
 \theta_I=\left\{
 \begin{aligned}
-&amp;\bar\theta+(1-w)\frac{S+c\varepsilon+\frac{1}{12}[(1+c)a_F-2S]^2\bar\theta}{\sigma_u^2+w\frac{1}{12}[(1+c)a_F-2S]^2},\hspace{0.5cm}S\ge\frac{(1-c)a_F}{2} \\
-&amp;\bar\theta+(1-w)\frac{S+c\varepsilon+\frac{1}{3}(c^2a_F^2)\bar\theta}{\sigma_u^2+w\frac{1}{3}(c^2a_F^2)},\hspace{0.5cm}\frac{(1-c)a_F}{2}\ge S\ge-\frac{(1-c)a_F}{2} \\
-&amp;\bar\theta+(1-w)\frac{S+c\varepsilon+\frac{1}{12}[(1+c)a_F+2S]^2\bar\theta}{\sigma_u^2+w\frac{1}{12}[(1+c)a_F+2S]^2},\hspace{0.5cm}S\le-\frac{(1-c)a_F}{2}  
+&amp;\bar\theta+(1-w)\frac{S+c\varepsilon+\frac{1}{12}[(1+c)a_F-2S]^2\bar\theta}{\sigma_u^2+w\frac{1}{12}[(1+c)a_F-2S]^2},\hspace{0.5cm} \frac{(1-c)a_F}{2}\le S \le \frac{(1+c)a_F}{2} \\
+&amp;\bar\theta+(1-w)\frac{S+c\varepsilon+\frac{1}{3}(c^2a_F^2)\bar\theta}{\sigma_u^2+w\frac{1}{3}(c^2a_F^2)},\hspace{0.5cm}-\frac{(1-c)a_F}{2}&lt; S&lt;\frac{(1-c)a_F}{2} \\
+&amp;\bar\theta+(1-w)\frac{S+c\varepsilon+\frac{1}{12}[(1+c)a_F+2S]^2\bar\theta}{\sigma_u^2+w\frac{1}{12}[(1+c)a_F+2S]^2},\hspace{0.5cm}-\frac{(1+c)a_F}{2} \le S\le-\frac{(1-c)a_F}{2}  
 \end{aligned}
 \right.
 \end{equation}\]</span></p>
 <p><span class="math display">\[\begin{equation}
 \theta_U=\left\{
 \begin{aligned}
-&amp;\bar\theta-w\frac{S+c\varepsilon+\frac{1}{12}[(1+c)a_F-2S]^2\bar\theta}{\sigma_u^2+w\frac{1}{12}[(1+c)a_F-2S]^2},\hspace{0.5cm}S\ge\frac{(1-c)a_F}{2} \\
-&amp;\bar\theta-w\frac{S+c\varepsilon+\frac{1}{3}(c^2a_F^2)\bar\theta}{\sigma_u^2+w\frac{1}{3}(c^2a_F^2)},\hspace{0.5cm}\frac{(1-c)a_F}{2}\ge S\ge-\frac{(1-c)a_F}{2} \\
-&amp;\bar\theta-w\frac{S+c\varepsilon+\frac{1}{12}[(1+c)a_F+2S]^2\bar\theta}{\sigma_u^2+w\frac{1}{12}[(1+c)a_F+2S]^2},\hspace{0.5cm}S\le-\frac{(1-c)a_F}{2}  
+&amp;\bar\theta-w\frac{S+c\varepsilon+\frac{1}{12}[(1+c)a_F-2S]^2\bar\theta}{\sigma_u^2+w\frac{1}{12}[(1+c)a_F-2S]^2},\hspace{0.5cm}\frac{(1-c)a_F}{2}\le S \le \frac{(1+c)a_F}{2} \\
+&amp;\bar\theta-w\frac{S+c\varepsilon+\frac{1}{3}(c^2a_F^2)\bar\theta}{\sigma_u^2+w\frac{1}{3}(c^2a_F^2)},\hspace{0.5cm}-\frac{(1-c)a_F}{2}&lt; S&lt; \frac{(1-c)a_F}{2} \\
+&amp;\bar\theta-w\frac{S+c\varepsilon+\frac{1}{12}[(1+c)a_F+2S]^2\bar\theta}{\sigma_u^2+w\frac{1}{12}[(1+c)a_F+2S]^2},\hspace{0.5cm}-\frac{(1+c)a_F}{2} \le S\le-\frac{(1-c)a_F}{2}  
 \end{aligned}
 \right.
 \end{equation}\]</span></p>
 </div>
-<div id="均衡价格最有需求模拟" class="section level3">
-<h3>均衡价格，最有需求模拟</h3>
+<div id="均衡价格最优需求模拟" class="section level3">
+<h3>均衡价格，最优需求模拟</h3>
 <p>参数设定，<span class="math inline">\(a_u=a_F=2\)</span>，<span class="math inline">\(\theta=0.1\)</span>，<span class="math inline">\(w=0.5\)</span>，<span class="math inline">\(c=0.01\)</span>，具体代码如下：</p>
 <pre class="r"><code>condmean&lt;-function(S,c,af){
   cm&lt;-NULL
@@ -260,13 +261,13 @@ condvar&lt;-function(S,c,af){
   return(vr)
 }
 set.seed(100)
-theta=0.1
+theta=0.2
 au&lt;-af&lt;-2
 simamu=au^2/3
 c=0
 w=0.5
 epsilon&lt;-runif(101,-2,2)
-S=seq(-1,1,0.02)
+S=seq(-(1+c)*au/2,(1+c)*au/2,0.02)
 VFI=laply(S,condvar,c,2)
 P=2*S+c*epsilon-theta*simamu-(1-w)*((S+c*epsilon+VFI)/(1+w*VFI/simamu))
 
@@ -278,5 +279,23 @@ thetaU=theta-w*((S+c*epsilon+VFI*theta)/(simamu+w*VFI))
 plot(S,thetaU,col=&quot;blue&quot;,lty=3,type = &quot;l&quot;)
 lines(S,thetaI,col=&quot;red&quot;)
 abline(h=theta,lty=3)</code></pre>
-<p><img src="/research/2021-01-14-etf持股影响股票定价效率的理论模型推导_files/figure-html/unnamed-chunk-2-2.png" width="672" /></p>
+<p><img src="/research/2021-01-14-etf持股影响股票定价效率的理论模型推导_files/figure-html/unnamed-chunk-2-2.png" width="672" />
+期望价格为：</p>
+<p><span class="math display">\[E[P]=\int _{\frac{(1-c)a_F}{2}}^{\frac{(1+c)a_F}{2}}Pf(S)dS+\int _{-\frac{(1-c)a_F}{2}}^{\frac{(1-c)a_F}{2}}Pf(S)dS+\int _{-\frac{(1+c)a_F}{2}}^{-\frac{(1-c)a_F}{2}}Pf(S)dS\\
+=\frac{1}{(1+c)a_F}\bigg[S^2-\bar\theta\sigma_u^2S-(1-w)[\frac{3\sigma_u^2}{2w}ln(1+\frac{w}{12\sigma_u^2}[(1+c)a_F-2S])+\frac{\bar\theta\sigma_u^2}{w}S\\+(\frac{\bar\theta\sigma_u^2}{2w}-\frac{(1+c)a_F}{4})(\frac{w}{12\sigma_u^2})^{-\frac{1}{2}}arctan(\sqrt{\frac{w}{12\sigma_u^2}}[(1+c)a_F-2S])\bigg]\bigg|_{\frac{(1-c)a_F}{2}}^{\frac{(1+c)a_F}{2}}\\
++\frac{1}{(1+c)a_F}\bigg[S^2-\bar\theta\sigma_u^2S-(1-w)[\frac{S^2}{2(1+\frac{wc^2a_F^2}{3\sigma_u^2})}+\frac{S\frac{c^2a_F^2\bar\theta}{3}}{(1+\frac{wc^2a_F^2}{3\sigma_u^2})}\bigg]\bigg|_{-\frac{(1-c)a_F}{2}}^{\frac{(1-c)a_F}{2}}\\
++\frac{1}{(1+c)a_F}\bigg[S^2-\bar\theta\sigma_u^2S-(1-w)[\frac{3\sigma_u^2}{2w}ln(1+\frac{w}{12\sigma_u^2}[(1+c)a_F+2S])+\frac{\bar\theta\sigma_u^2}{w}S\\-(\frac{\bar\theta\sigma_u^2}{2w}+\frac{(1+c)a_F}{4})(\frac{w}{12\sigma_u^2})^{-\frac{1}{2}}arctan(\sqrt{\frac{w}{12\sigma_u^2}}[(1+c)a_F+2S])\bigg]\bigg|_{-\frac{(1+c)a_F}{2}}^{-\frac{(1-c)a_F}{2}}\\
+=\frac{1}{(1+c)a_F}\bigg[-\bar\theta\sigma_u^2(1+c)a_F-(1-w)\frac{(1-c)c^2a_F^3}{1+wc^2a_F^2/3\sigma_u^2}-\frac{\theta\sigma_u^2}{w}\sqrt{12\sigma_u^2/w}arctan(\sqrt{\frac{w}{12\sigma_u^2}}2ca_F)\bigg]\]</span></p>
+<p>参数设定，<span class="math inline">\(a_u=a_F=2\)</span>，<span class="math inline">\(\theta=0.1\)</span>，<span class="math inline">\(w=0.5\)</span>，<span class="math inline">\(c=0.01\)</span>，具体代码如下：</p>
+<pre class="r"><code>set.seed(100)
+theta=0.2
+au&lt;-af&lt;-2
+simamu=au^2/3
+c=seq(0,1,0.01)
+w=0.5
+P=(-theta*simamu*(1+c)*af-(1-w)*(1-c)*c^2*af^3/(1+w*c^2*af^2/(3*simamu))-theta*simamu/w*sqrt(12*simamu/w)*atan(sqrt(w/(12*simamu))*2*c*af))/((1+c)*af)
+
+plot(c,P,lty=3,type = &quot;l&quot;)
+abline(h=-theta*simamu,col=&quot;red&quot;,lty=3)</code></pre>
+<p><img src="/research/2021-01-14-etf持股影响股票定价效率的理论模型推导_files/figure-html/unnamed-chunk-3-1.png" width="672" /></p>
 </div>
